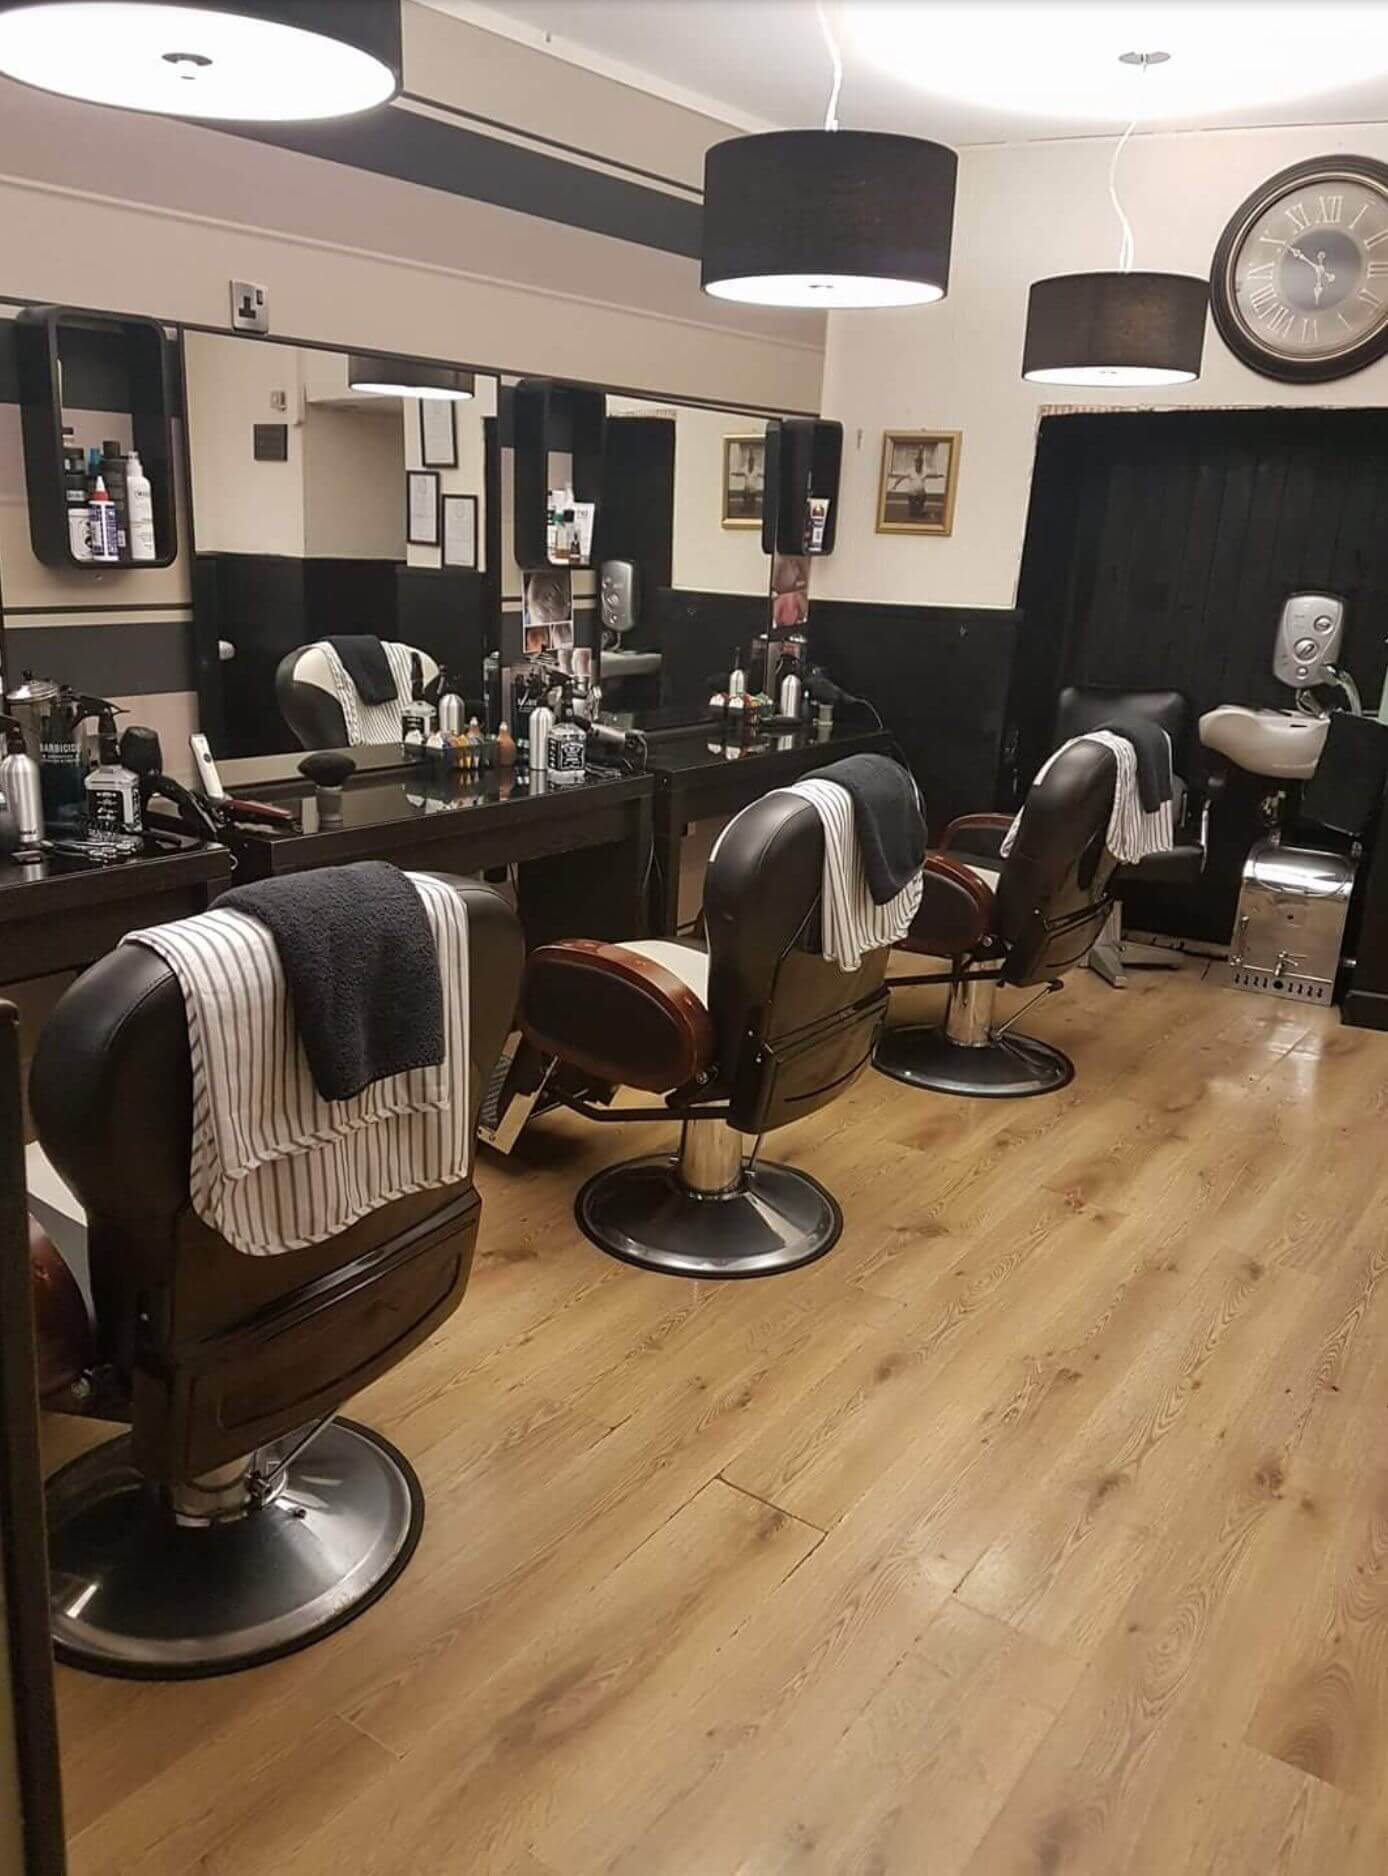
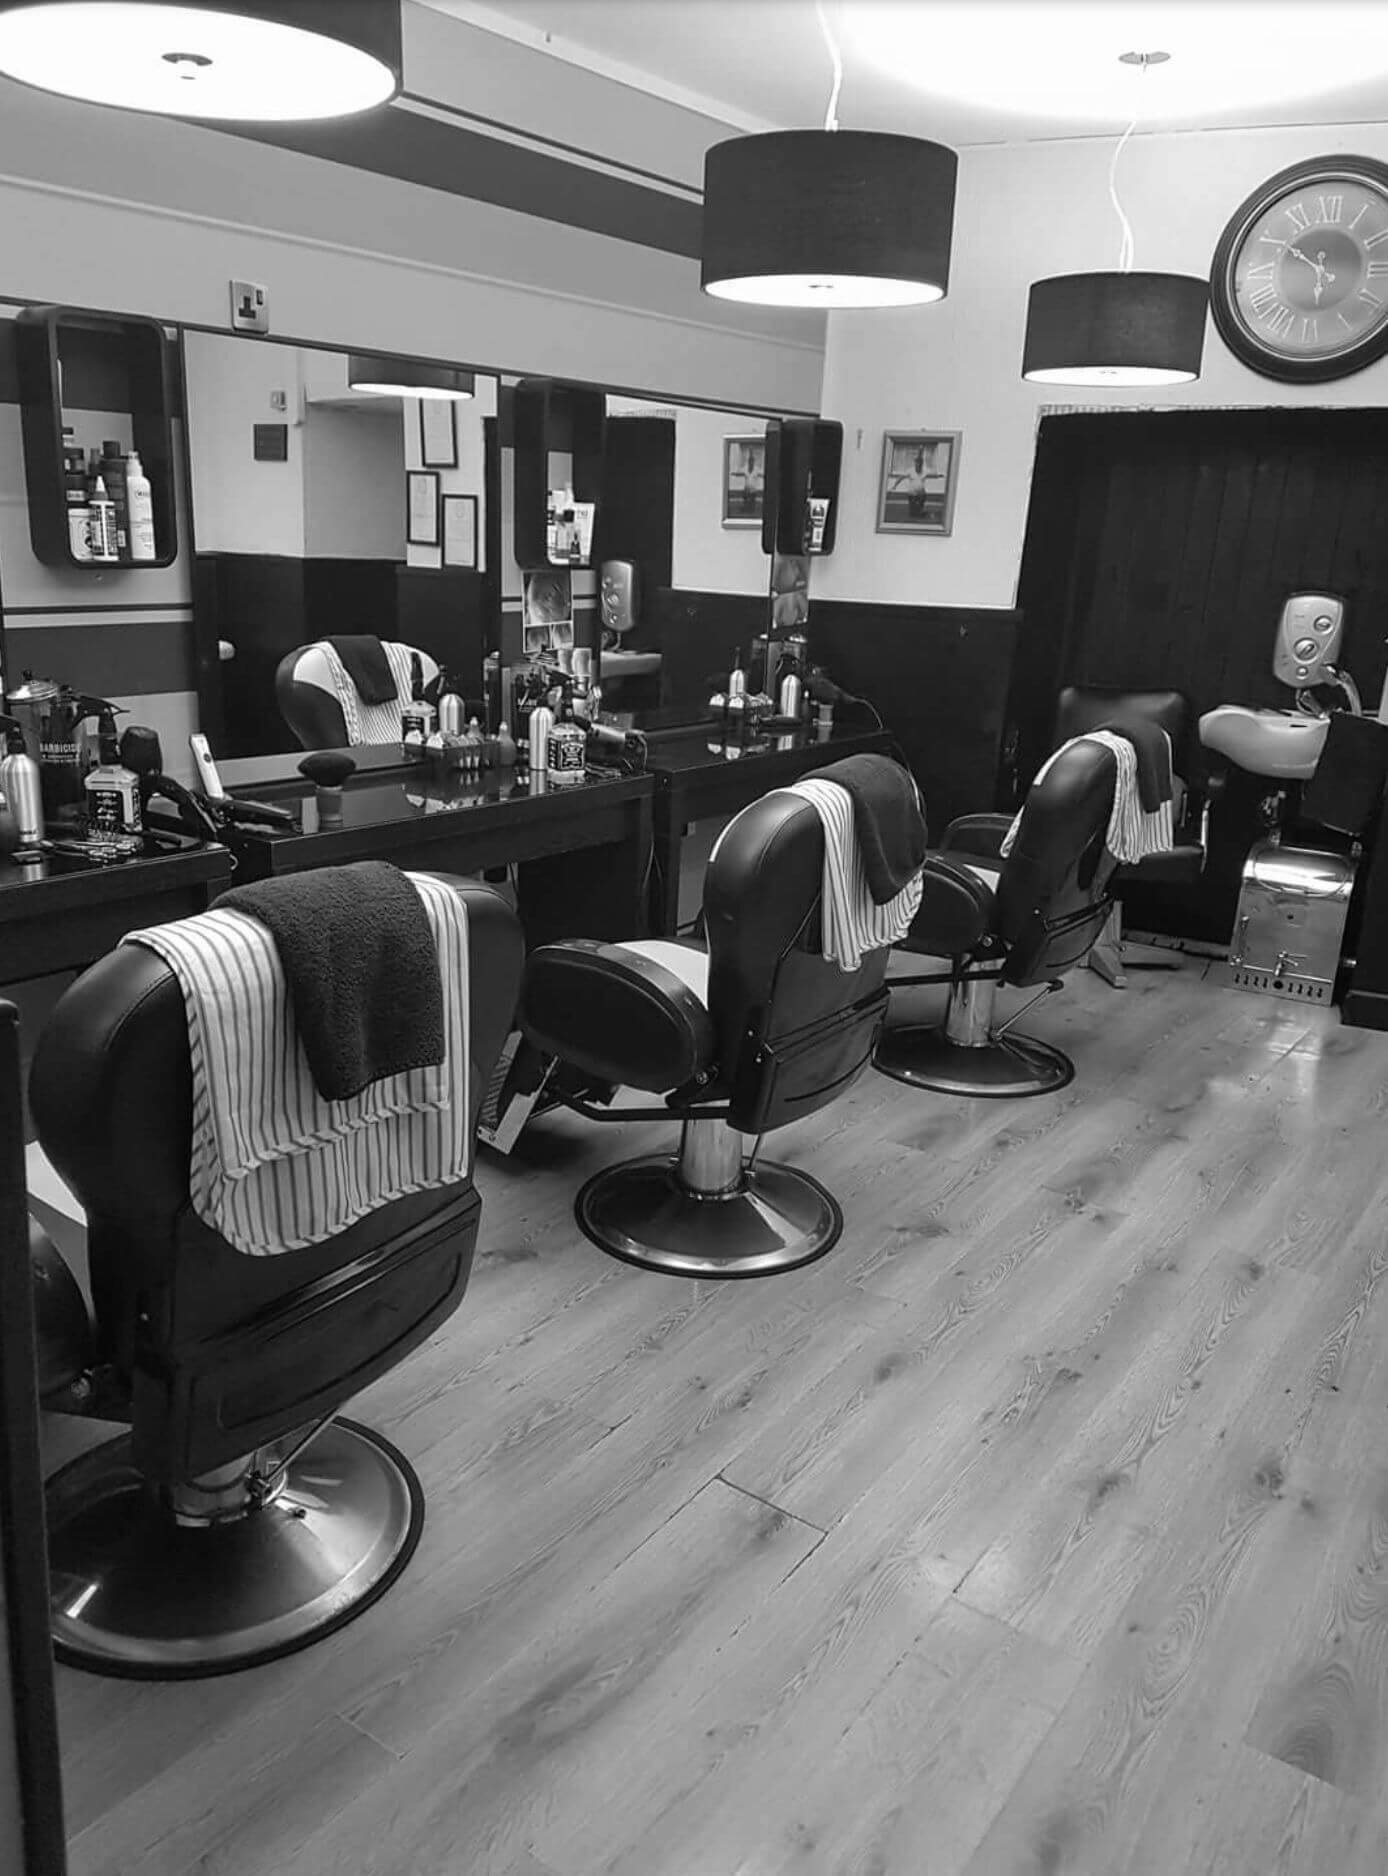
Updates

diff --git a/src/components/PriceList/index.js b/src/components/PriceList/index.js
@@ -6,44 +6,49 @@ import List from "../List";
 import Icon from "../../images/barber-shop.svg"
 import Clock from "../../images/clock.svg"
 
-const PriceListComponent = () => (
-    <Flex 
-        as="section" 
-        flexWrap={['wrap', 'wrap', 'nowrap']}
-        justifyContent="space-between"
-        css={{ maxWidth: '900px'}} 
-        mx="auto" 
-        pb={[5, 6]}>
-        
-        <Box 
-            order={[2, 2, 1]}
-            width={[1, 1, 1/2]} 
-            px={[3, 4]}>
-            
-            <List 
-                data={PRICE_LIST} 
-                icon={Icon}
-            />
-            
-        </Box>
+class PriceListComponent extends React.Component {
 
-        <Box 
-            order={[1, 1, 2]}
-            width={[1, 1, 1/2]} 
-            px={[3, 4]}>
-            <h2>Price Lists & Opening Hours</h2>
+    render() {
+        return (
+            <Flex 
+                as="section" 
+                flexWrap={['wrap', 'wrap', 'nowrap']}
+                justifyContent="space-between"
+                css={{ maxWidth: '900px'}} 
+                mx="auto" 
+                pb={[5, 6]}>
+                
+                <Box 
+                    order={[2, 2, 1]}
+                    width={[1, 1, 1/2]} 
+                    px={[3, 4]}>
+                    
+                    <List 
+                        data={PRICE_LIST} 
+                        icon={Icon}
+                    />
+                    
+                </Box>
 
-            <p>Lorem ipsum dolor sit amet, consectetur adipiscing elit. Mauris luctus fringilla suscipit. Orci varius natoque penatibus et magnis dis parturient montes, nascetur ridiculus mus. Ut at felis tortor.</p>
-            <p>Lorem ipsum dolor sit amet, consectetur adipiscing elit. Mauris luctus fringilla suscipit. Orci varius natoque penatibus et magnis dis parturient montes, nascetur ridiculus mus. Ut at felis tortor.</p>
+                <Box 
+                    order={[1, 1, 2]}
+                    width={[1, 1, 1/2]} 
+                    px={[3, 4]}>
+                    <h2>Price Lists & Opening Hours</h2>
 
-            <List 
-                data={OPENING_HOURS} 
-                icon={Clock}
-                mt={4}
-            />
-        </Box>
-    </Flex>
-)
+                    <p>Lorem ipsum dolor sit amet, consectetur adipiscing elit. Mauris luctus fringilla suscipit. Orci varius natoque penatibus et magnis dis parturient montes, nascetur ridiculus mus. Ut at felis tortor.</p>
+                    <p>Lorem ipsum dolor sit amet, consectetur adipiscing elit. Mauris luctus fringilla suscipit. Orci varius natoque penatibus et magnis dis parturient montes, nascetur ridiculus mus. Ut at felis tortor.</p>
+
+                    <List 
+                        data={OPENING_HOURS} 
+                        icon={Clock}
+                        mt={4}
+                    />
+                </Box>
+            </Flex>
+        )
+    }
+}
 
 export default PriceListComponent
 

diff --git a/src/pages/index.js b/src/pages/index.js
@@ -8,6 +8,8 @@ import Hero from "../components/Hero"
 import BackgroundColor from "../components/BackgroundColor";
 import PriceList from "../components/PriceList"
 
+import Barbers from "../images/sweeney-barbers.jpg";
+
 const About = styled(Flex)`
 	position: relative;
 	z-index: 1;
@@ -27,6 +29,7 @@ const AboutImage = styled.img`
 	border-radius: 10px;
 	box-shadow: -5px 7px 7px 2px rgba(0,0,0,0.4);
 	transform: rotate(-45deg);
+	filter: grayscale(100%);
 `
 
 const Index = () => (
@@ -54,11 +57,11 @@ const Index = () => (
 
 				<Box width={[1, 1/2]} px={[3, 4]}>
 					<ImageWrapper>
-						<AboutImage src="https://placehold.it/400x400/FAB645/FAB645" alt="Susan" />
+						<AboutImage src={Barbers} alt="Susan & Ruth, Sweeney Barbers" />
 					</ImageWrapper>
 				</Box>
 			</About>
-			
+
 			<PriceList />
 		</BackgroundColor>
 	</Layout>

diff --git a/src/components/Hero/index.js b/src/components/Hero/index.js
@@ -26,6 +26,7 @@ const Wrapper = styled(Flex)`
 	background-repeat: no-repeat;
 	background-position: center center;
 	height: calc(100vh - 150px);
+	max-height: 1200px;
 
 	&:before {
 		content: "";
